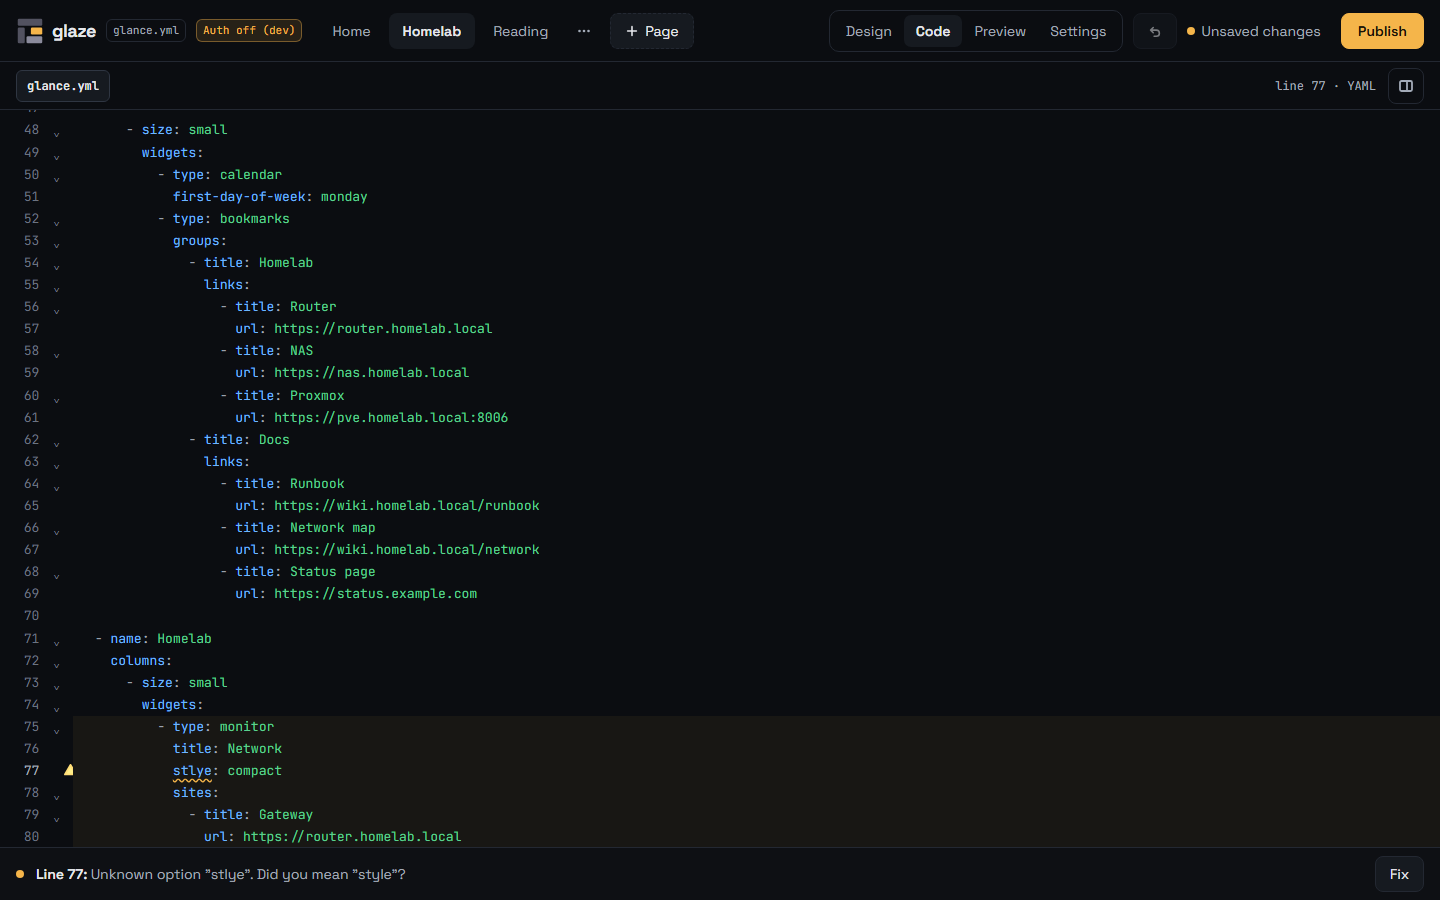
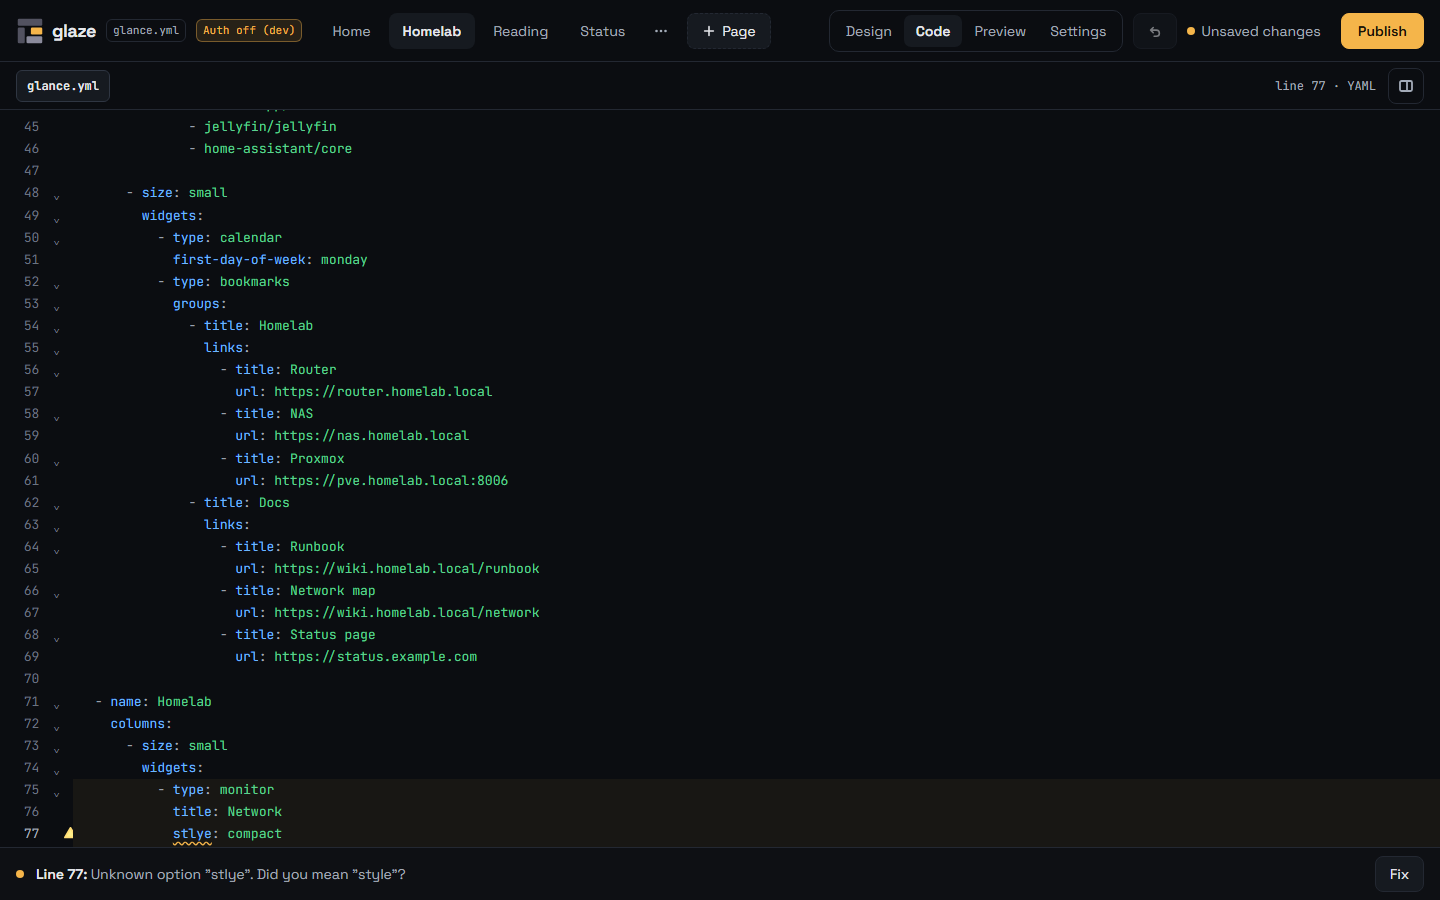
docs: screenshots of split-columns, custom-api and the Settings view
The demo config gets a Status page with three widgets in a split-column
and a custom-api widget, plus a theme with a preset (fake hosts, secrets
as ${VAR}). The screenshot script adds split-column.png (with the width
handle held), custom-api.png (template and cheat sheet) and settings.png
(Theme section), and every image is re-taken with the current UI.

diff --git a/scripts/screenshots.ts b/scripts/screenshots.ts
@@ -276,6 +276,66 @@ async function publishShot(browser: Browser, url: string): Promise<void> {
 	await page.context().close();
 }
 
+/** Opens the Status page, whose full column has a split-column with three widgets. */
+async function openStatusPage(page: Page): Promise<void> {
+	await page.getByRole("tab", { name: "Status", exact: true }).click();
+	await page.getByText("Solar today", { exact: true }).waitFor();
+}
+
+async function splitColumnShot(browser: Browser, url: string): Promise<void> {
+	const page = await openEditor(browser, url);
+	await openStatusPage(page);
+	await page.getByText("Server stats", { exact: true }).last().click();
+	const handle = page.getByRole("slider", { name: "Width of Server stats" });
+	await handle.waitFor();
+	// Hold the handle without moving it far: the label (⅓ · 3 columns) and the
+	// shared-width hint only show while dragging. Released afterwards on the
+	// same width, so nothing changes.
+	const box = await handle.boundingBox();
+	if (box === null) fail("The width handle has no size");
+	const x = box.x + box.width / 2;
+	const y = box.y + box.height / 2;
+	await page.mouse.move(x, y);
+	await page.mouse.down();
+	await page.mouse.move(x + 4, y, { steps: 2 });
+	await shoot(page, "split-column.png");
+	await page.mouse.up();
+	await page.context().close();
+}
+
+async function customApiShot(browser: Browser, url: string): Promise<void> {
+	const page = await openEditor(browser, url);
+	await openStatusPage(page);
+	await page.getByText("Solar today", { exact: true }).click();
+	// The widest inspector, so the template lines don't wrap as much, and no
+	// library, so the canvas keeps its room.
+	await page.getByRole("separator", { name: "Resize the inspector" }).focus();
+	await page.keyboard.press("End");
+	await page.getByRole("button", { name: "Hide the widget library" }).click();
+	const inspector = page.getByRole("complementary", { name: "Inspector" });
+	const cheatSheet = inspector.getByText("Template cheat sheet");
+	await cheatSheet.click();
+	// Template and cheat sheet together, below the request fields.
+	await inspector
+		.getByText("Template", { exact: true })
+		.first()
+		.evaluate((element) => element.scrollIntoView({ block: "start" }));
+	await shoot(page, "custom-api.png");
+	await page.context().close();
+}
+
+async function settingsShot(browser: Browser, url: string): Promise<void> {
+	const page = await openEditor(browser, url);
+	await page.getByRole("button", { name: /^Settings/ }).click();
+	await page
+		.getByRole("navigation", { name: "Settings sections" })
+		.getByRole("button", { name: "Theme", exact: true })
+		.click();
+	await page.getByRole("heading", { name: "Theme", exact: true }).waitFor();
+	await shoot(page, "settings.png");
+	await page.context().close();
+}
+
 async function loginShot(browser: Browser, url: string): Promise<void> {
 	const page = await openPage(browser, url);
 	await page
@@ -311,8 +371,11 @@ async function main(): Promise<void> {
 			fail(`Port ${GLANCE_PORT} is in use; Glance needs it for the preview`);
 		start("Glance", glanceBin, ["--config", copy("glance")], {
 			...process.env,
-			// The demo config reads it; empty means unauthenticated GitHub requests.
+			// The demo config reads these; empty means unauthenticated GitHub
+			// requests and failing (fake) homelab requests.
 			GITHUB_TOKEN: process.env.GITHUB_TOKEN ?? "",
+			PIHOLE_PASSWORD: "",
+			SOLAR_API_KEY: "",
 		});
 		glanceUrl = `http://localhost:${GLANCE_PORT}`;
 		await waitForUrl(`${glanceUrl}/api/healthz`, "Glance");
@@ -341,6 +404,9 @@ async function main(): Promise<void> {
 		if (glanceUrl !== null) await codePreviewShot(browser, editorUrl);
 		await validationShot(browser, editorUrl);
 		await publishShot(browser, editorUrl);
+		await splitColumnShot(browser, editorUrl);
+		await customApiShot(browser, editorUrl);
+		await settingsShot(browser, editorUrl);
 		await loginShot(browser, loginUrl);
 	} finally {
 		await browser.close();
